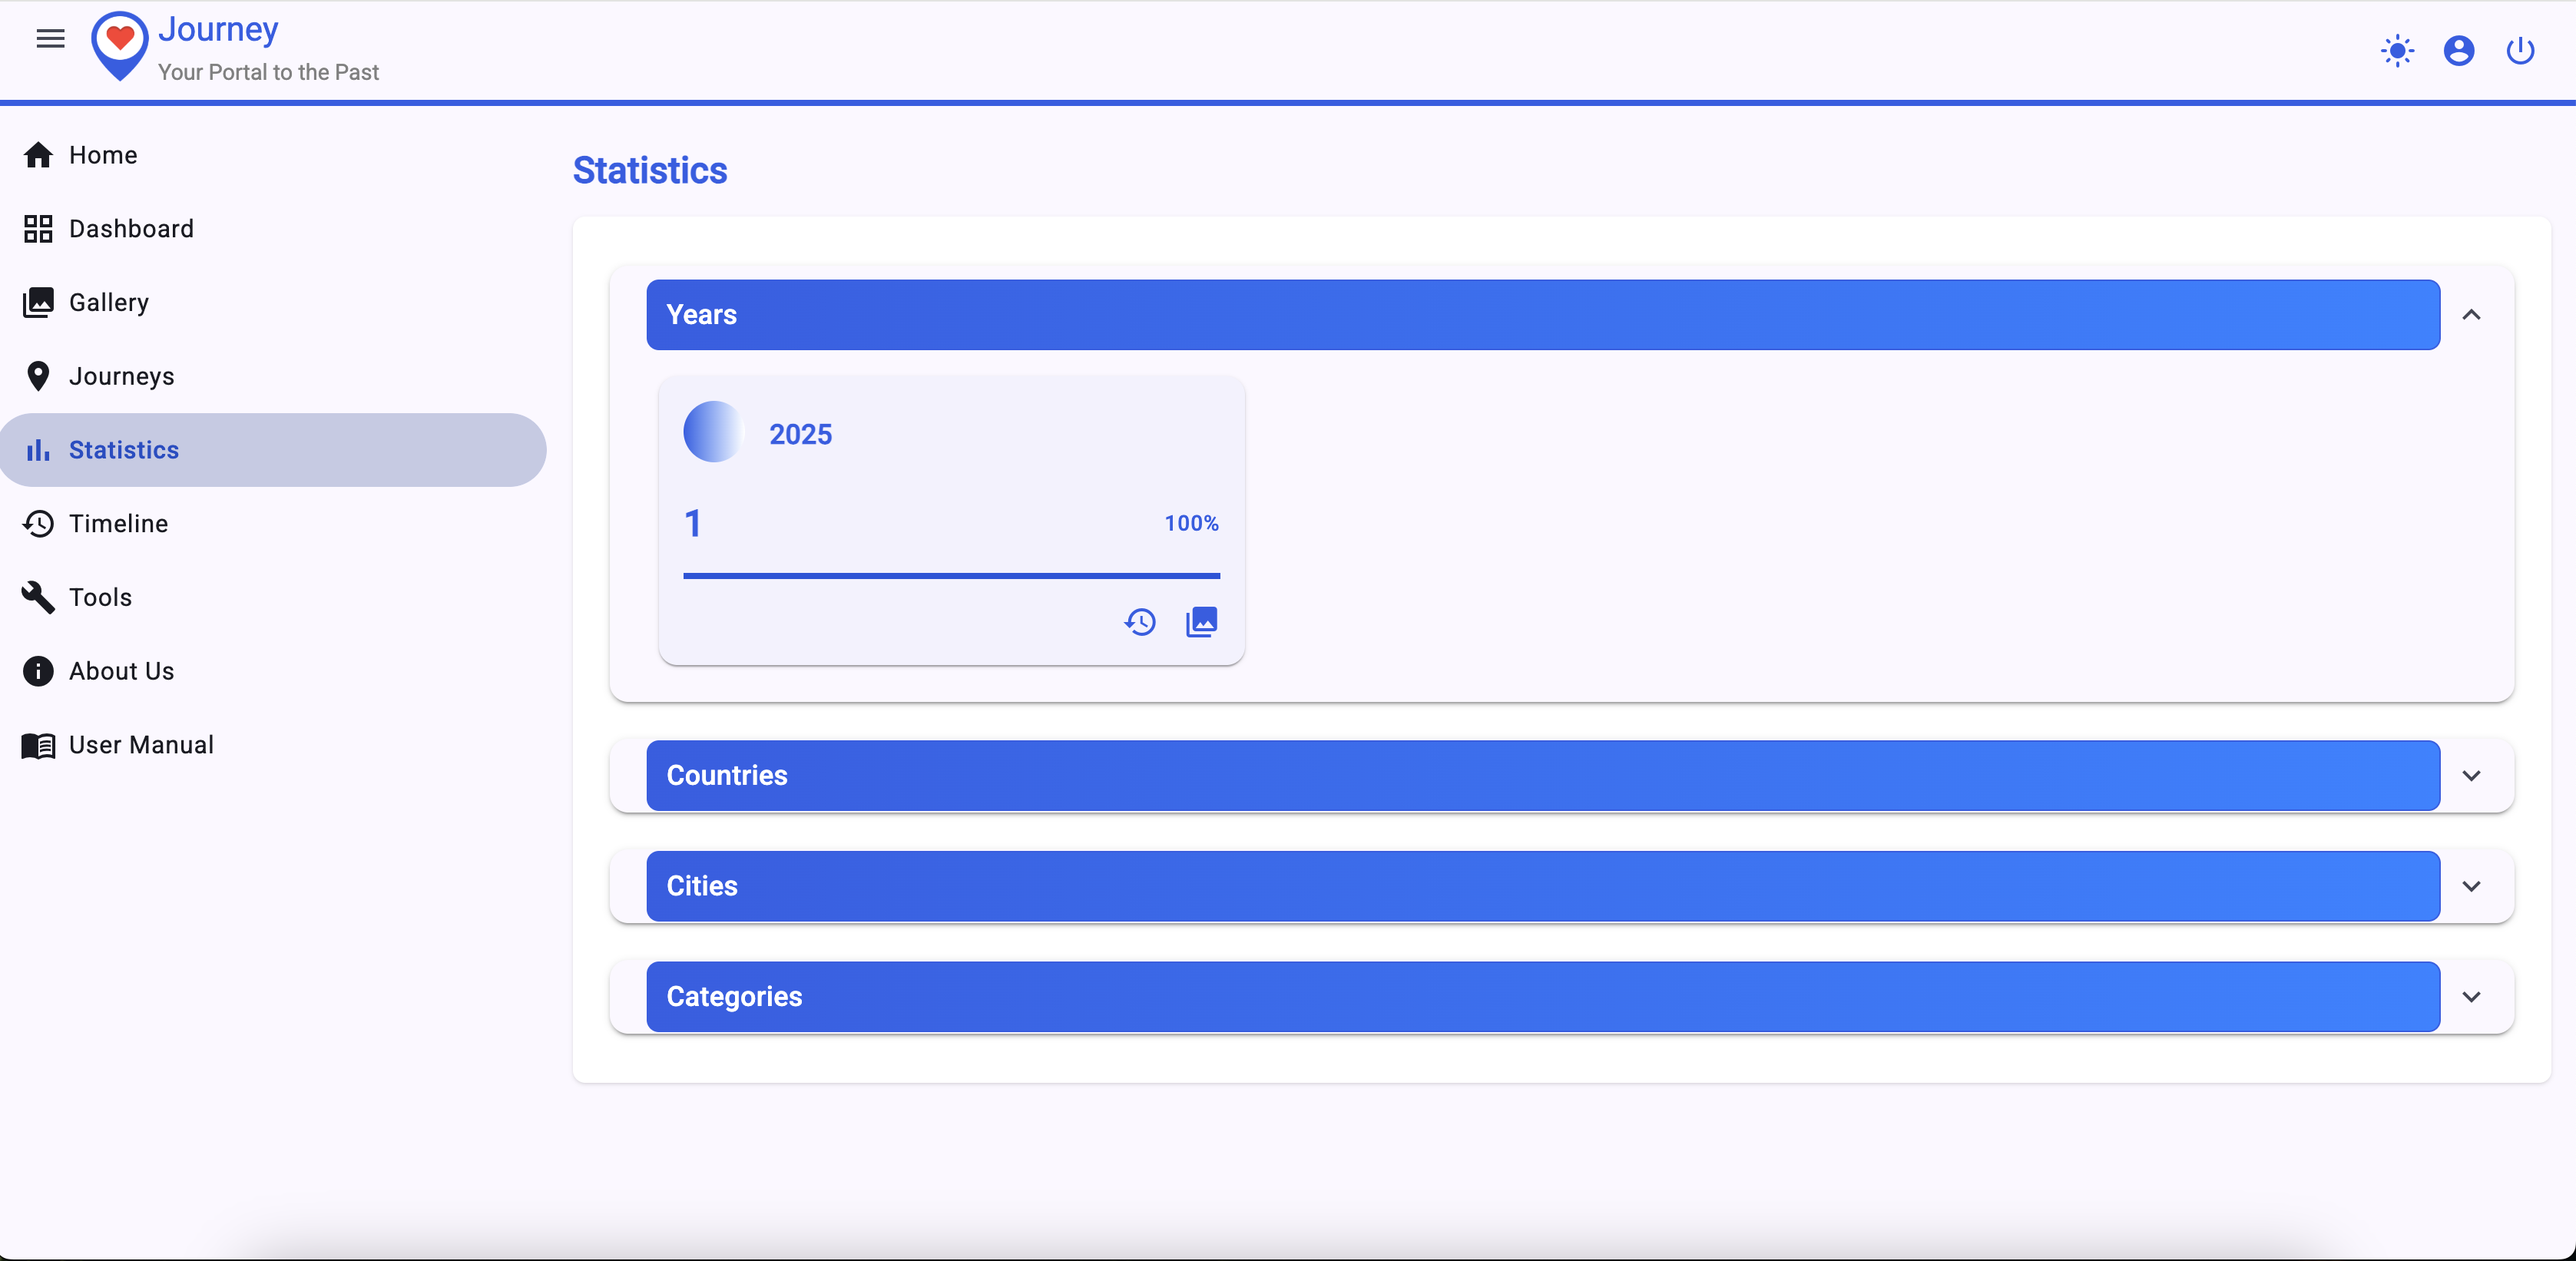
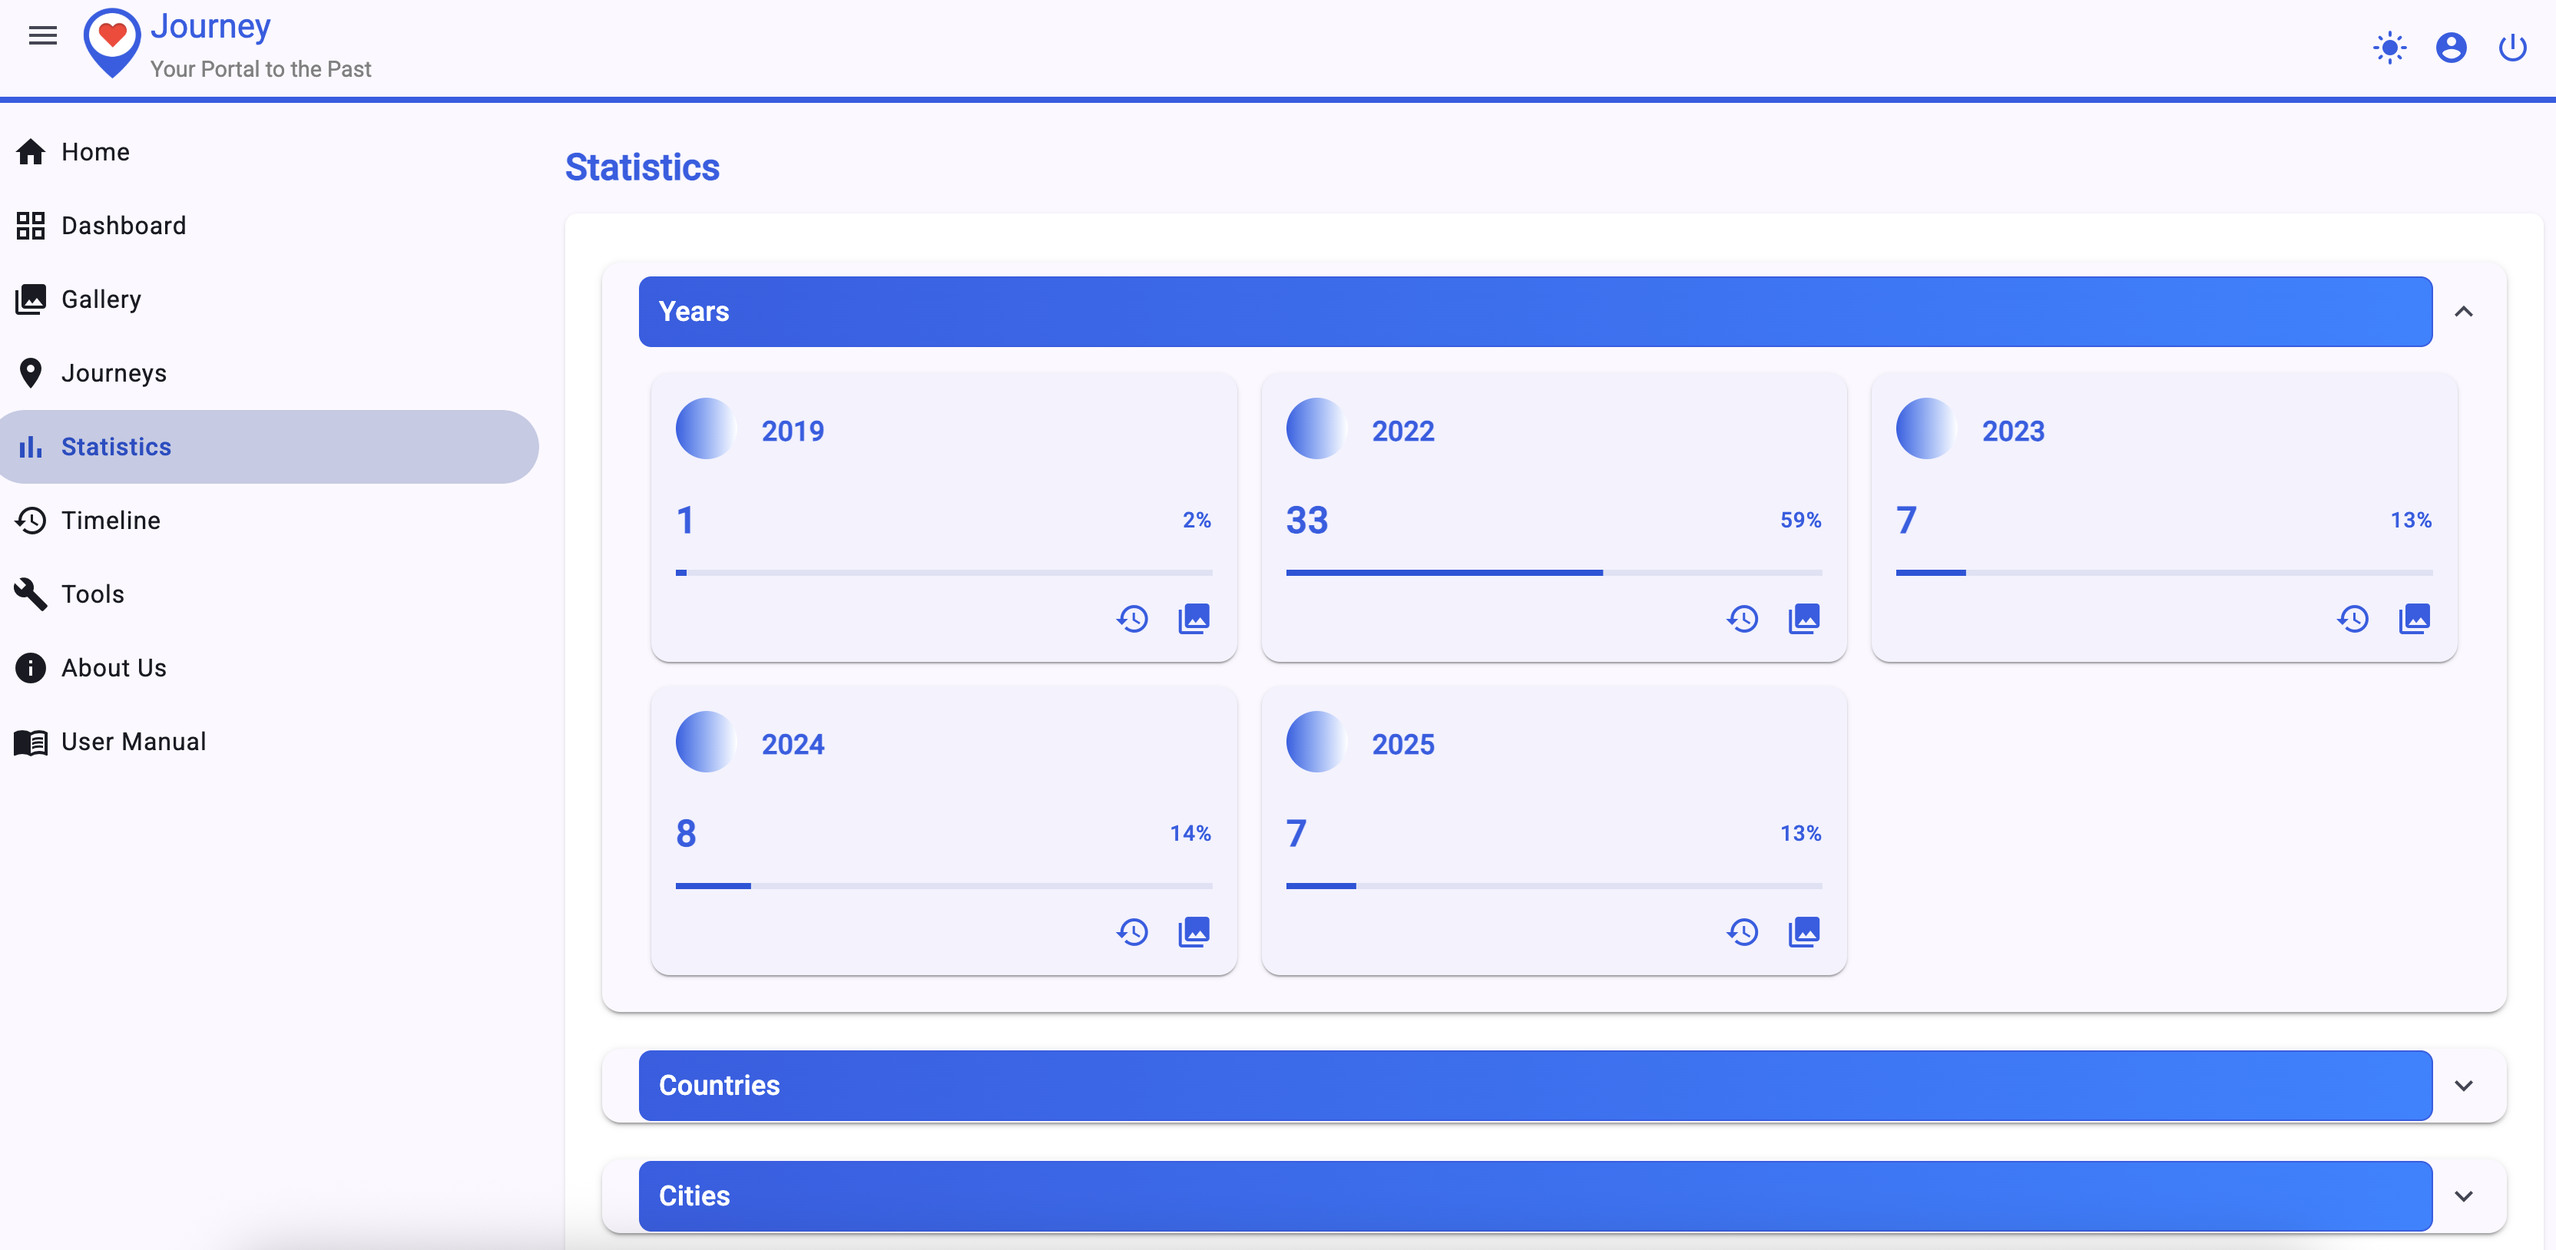
feat: add 'My Account' section to user manual for improved navigation (#833)
* feat: add 'My Account' section to user manual for improved navigation

* feat: add detailed 'My Account' section to user manual for better user guidance

* feat: enhance statistics page example with additional thumbnails for better visualization

diff --git a/src/app/user-manual/manual-my-account/manual-my-account.component.html b/src/app/user-manual/manual-my-account/manual-my-account.component.html
@@ -1,0 +1,31 @@
+<section>
+  <h2 class="text-lg font-bold mb-4">My Account</h2>
+
+  <p class="mb-4">
+    The My Account section allows you to manage your account settings and preferences.
+  </p>
+  <ul class="list-disc pl-5">
+    <li>My Account is accessible in the top tool bar with name <strong>My Account</strong>.</li>
+    <li>It provides a user-friendly interface for updating your profile information.</li>
+    <li>You can change your password.</li>
+    <li>You can view and manage your account security settings.</li>
+    <li>You can activate/deactivate Multi-Factor authentication</li>
+    <li>You can activate/deactivate Time based One Time Token (TOTP).</li>
+    <li>You can view your account activity and login history.</li>
+    <li>You can delete your account.</li>
+  </ul>
+  <p>
+    You can find a detailed video tutorial on the My Account section in the following link:
+    <iframe width="560" height="315" src="https://www.youtube.com/embed/_HKoqWfe_VY?si=51-kCDqwmrN6Vvu_"
+            title="YouTube video player" class="max-sm:mx-auto max-sm:w-full sm:w-[560px] sm:h-[315px]"
+            allow="accelerometer; autoplay; clipboard-write; encrypted-media; gyroscope; picture-in-picture; web-share"
+            referrerpolicy="strict-origin-when-cross-origin" allowfullscreen></iframe>
+  </p>
+  <p>
+    <strong>Note:</strong> All users including "Guest User" can access the My Account section. However, only users with
+    the
+    <strong>AUTHENTICATED_USER</strong> role can update their profile information and manage their account settings.
+    "Guest user" can only view their account information.
+  </p>
+
+</section>

diff --git a/src/app/user-manual/manual-statistics/manual-statistics.component.html b/src/app/user-manual/manual-statistics/manual-statistics.component.html
@@ -19,12 +19,20 @@
     <li>Categories</li>
   </ul>
 
-  <p class="mb-4">
-    This is the example of the statistics page:
-    <img src="assets/manual/statistics-manual-01.png" alt="Thumbnail" class="thumbnail mt-4" tabindex="-1"
-         (click)="thumbnailClicked.emit('assets/manual/statistics-manual-01.png')"
-         (keydown.enter)="thumbnailClicked.emit('assets/manual/statistics-manual-01.png')"/>
-  </p>
+  <div class="mb-4">
+    <p>This is the example of the statistics page:</p>
+    <div class="flex flex-wrap gap-4 justify-center">
+      <img src="assets/manual/statistics-manual-01.png" alt="Thumbnail" class="thumbnail mt-4" tabindex="-1"
+           (click)="thumbnailClicked.emit('assets/manual/statistics-manual-01.png')"
+           (keydown.enter)="thumbnailClicked.emit('assets/manual/statistics-manual-01.png')"/>
+      <img src="assets/manual/statistics-manual-02.png" alt="Thumbnail" class="thumbnail mt-4" tabindex="-1"
+           (click)="thumbnailClicked.emit('assets/manual/statistics-manual-01.png')"
+           (keydown.enter)="thumbnailClicked.emit('assets/manual/statistics-manual-01.png')"/>
+      <img src="assets/manual/statistics-manual-03.png" alt="Thumbnail" class="thumbnail mt-4" tabindex="-1"
+           (click)="thumbnailClicked.emit('assets/manual/statistics-manual-01.png')"
+           (keydown.enter)="thumbnailClicked.emit('assets/manual/statistics-manual-01.png')"/>
+    </div>
+  </div>
 
   <div>
     <strong>Note:</strong>

diff --git a/src/app/user-manual/user-manual.component.html b/src/app/user-manual/user-manual.component.html
@@ -26,6 +26,8 @@
                  class="text-blue-500 hover:underline hover:cursor-pointer">Gallery</a></li>
           <li><a (click)="scrollTo('statistics')" (keydown.enter)="scrollTo('statistics')" tabindex="0"
                  class="text-blue-500 hover:underline hover:cursor-pointer">Statistics</a></li>
+          <li><a (click)="scrollTo('my-account')" (keydown.enter)="scrollTo('my-account')" tabindex="0"
+                  class="text-blue-500 hover:underline hover:cursor-pointer">My Account</a></li>
           <li><a (click)="scrollTo('tools')" (keydown.enter)="scrollTo('tools')" tabindex="0"
                  class="text-blue-500 hover:underline hover:cursor-pointer">Tools</a></li>
           <li><a (click)="scrollTo('daily-inspiration')" (keydown.enter)="scrollTo('daily-inspiration')" tabindex="0"
@@ -49,6 +51,8 @@
     <app-manual-gallery id="gallery"/>
 
     <app-manual-statistics (thumbnailClicked)="showDialog($event)" id="statistics"/>
+
+    <app-manual-my-account id="my-account"/>
 
     <app-manual-tools id="tools"/>
 

diff --git a/src/app/user-manual/user-manual.component.ts b/src/app/user-manual/user-manual.component.ts
@@ -11,6 +11,7 @@ import {ManualGalleryComponent} from "./manual-gallery/manual-gallery.component"
 import {ManualDashboardComponent} from "./manual-dashboard/manual-dashboard.component";
 import {ManualDailyInspirationComponent} from "./manual-daily-inspiration/manual-daily-inspiration.component";
 import {ScrollToTopComponent} from "../component/scroll-to-top/scroll-to-top.component";
+import {ManualMyAccountComponent} from "./manual-my-account/manual-my-account.component";
 
 
 @Component({
@@ -26,7 +27,8 @@ import {ScrollToTopComponent} from "../component/scroll-to-top/scroll-to-top.com
     ManualGalleryComponent,
     ManualDashboardComponent,
     ManualDailyInspirationComponent,
-    ScrollToTopComponent
+    ScrollToTopComponent,
+    ManualMyAccountComponent
   ],
   templateUrl: './user-manual.component.html',
   styleUrl: './user-manual.component.scss',

diff --git a/src/app/user-manual/manual-my-account/manual-my-account.component.ts b/src/app/user-manual/manual-my-account/manual-my-account.component.ts
@@ -1,0 +1,11 @@
+import { Component } from '@angular/core';
+
+@Component({
+  selector: 'app-manual-my-account',
+  imports: [],
+  templateUrl: './manual-my-account.component.html',
+  styles: []
+})
+export class ManualMyAccountComponent {
+
+}
